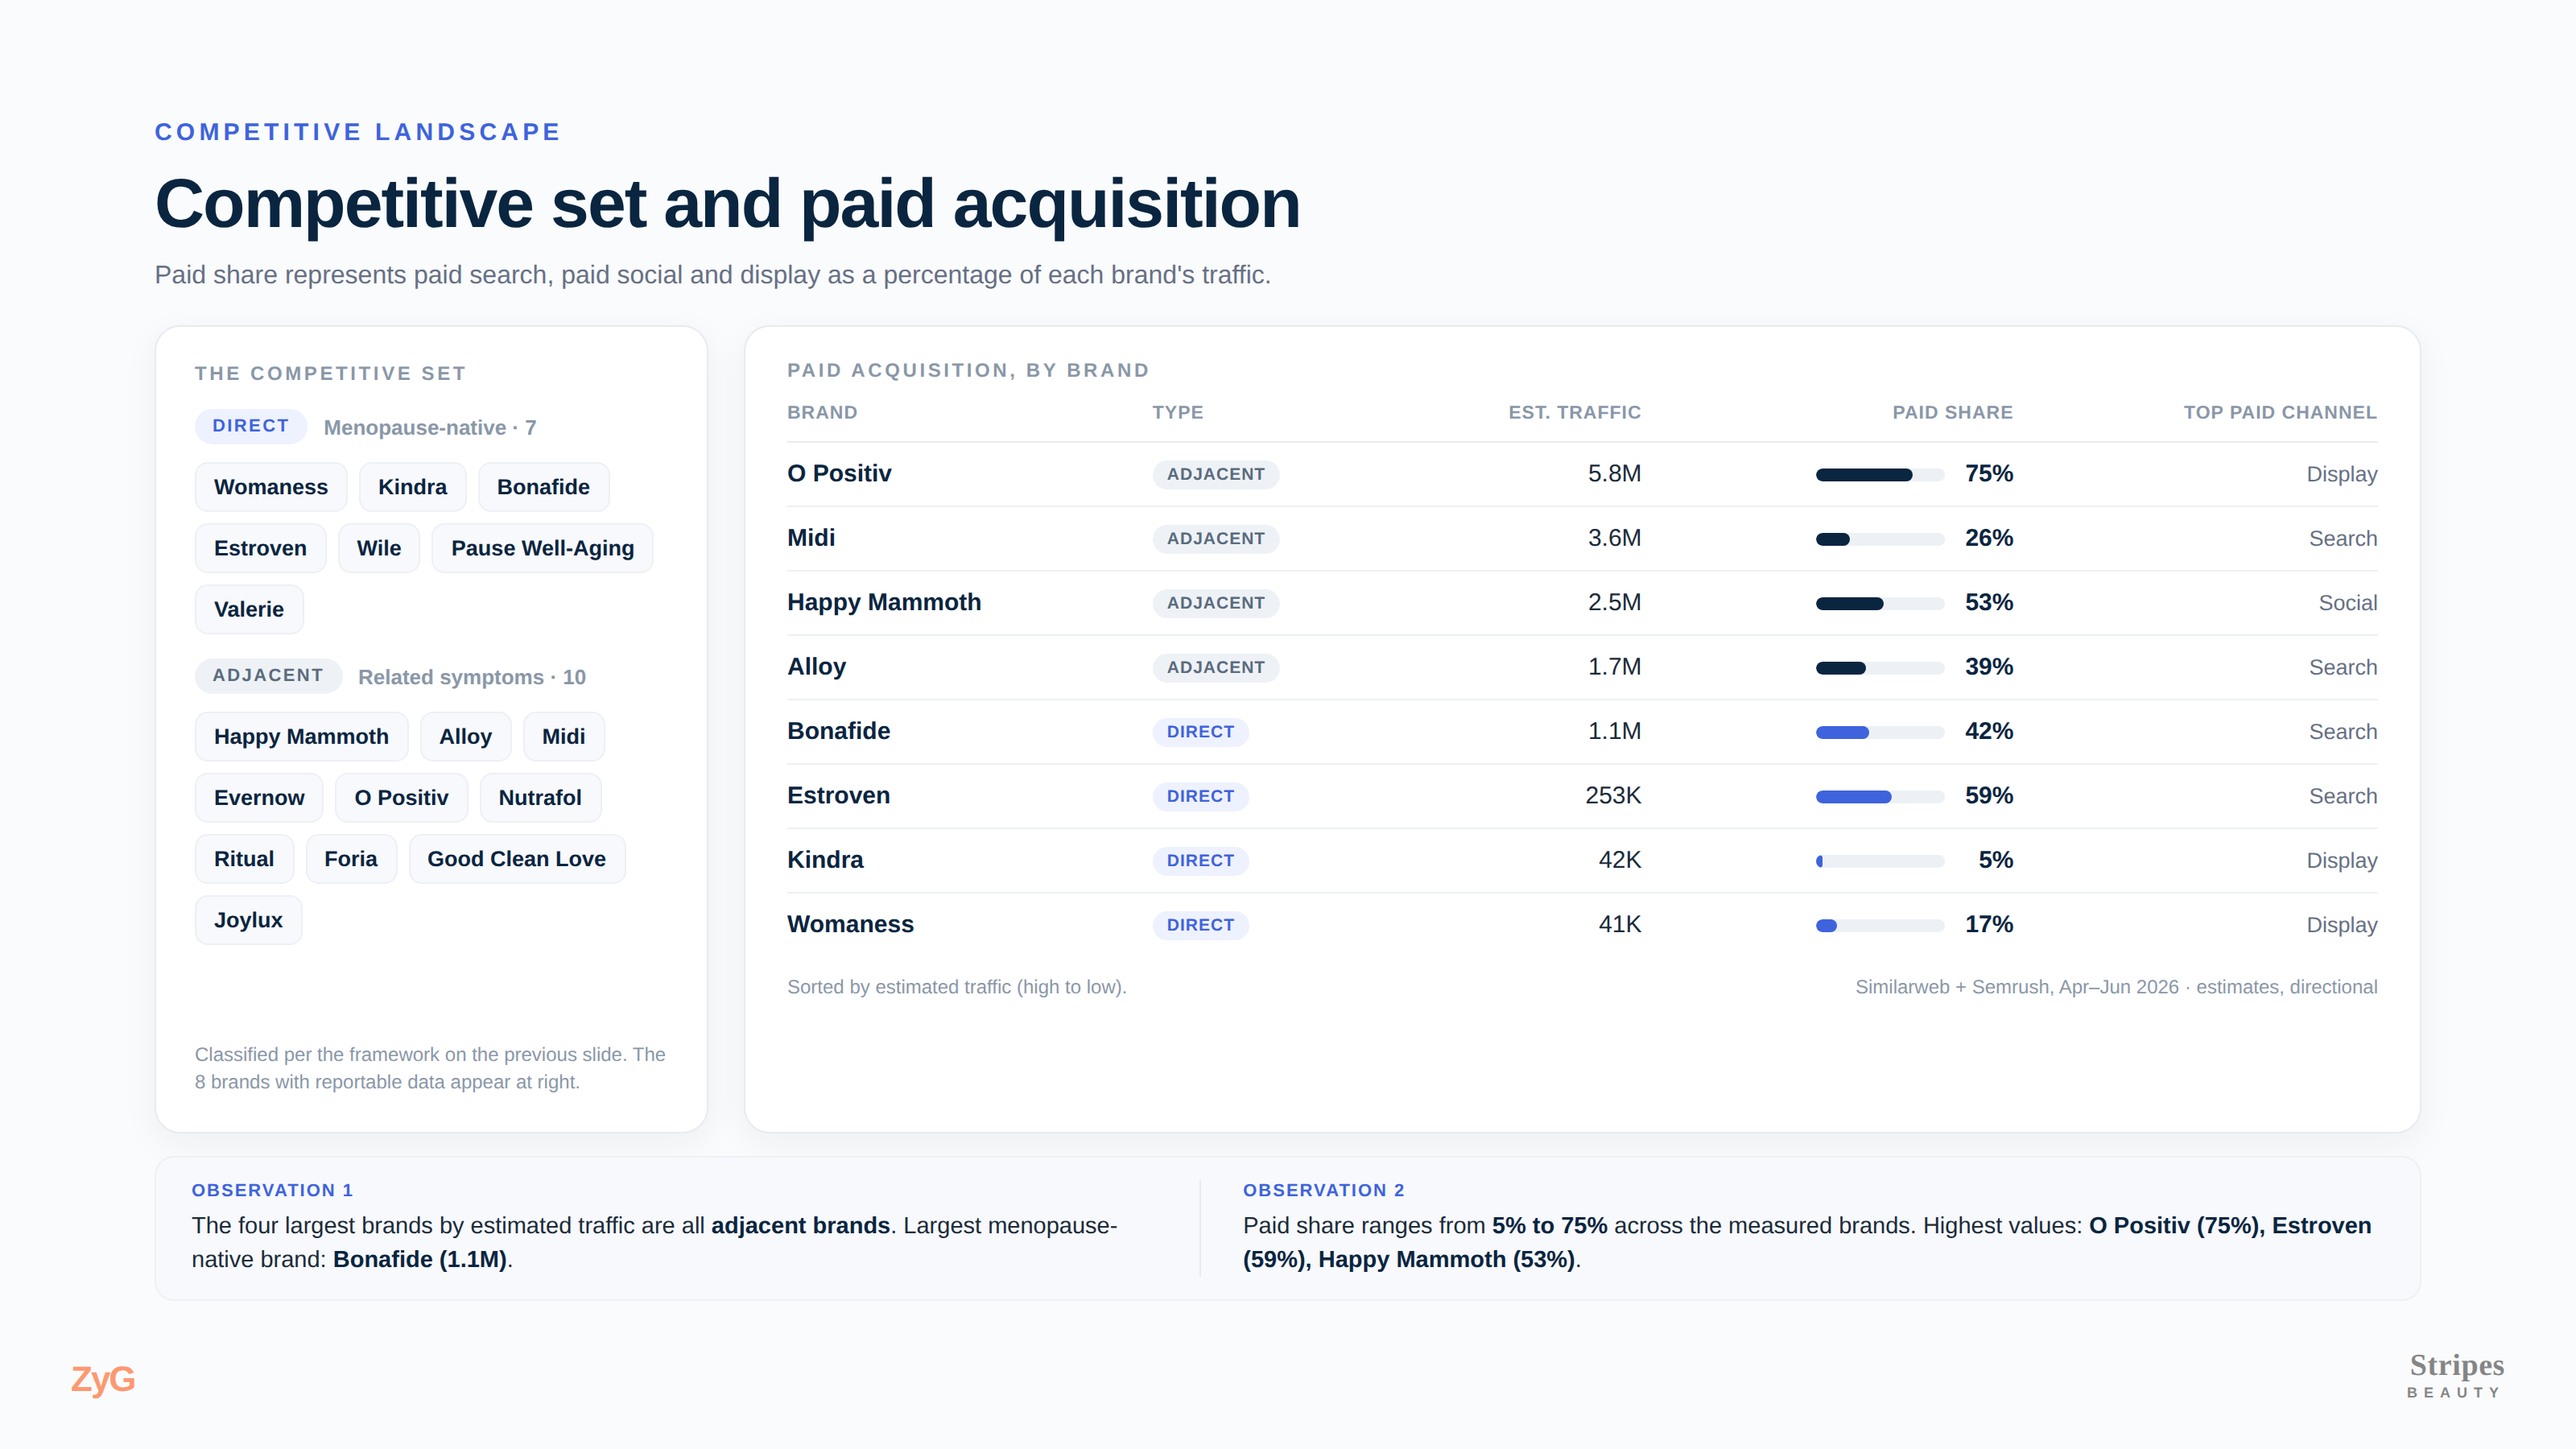
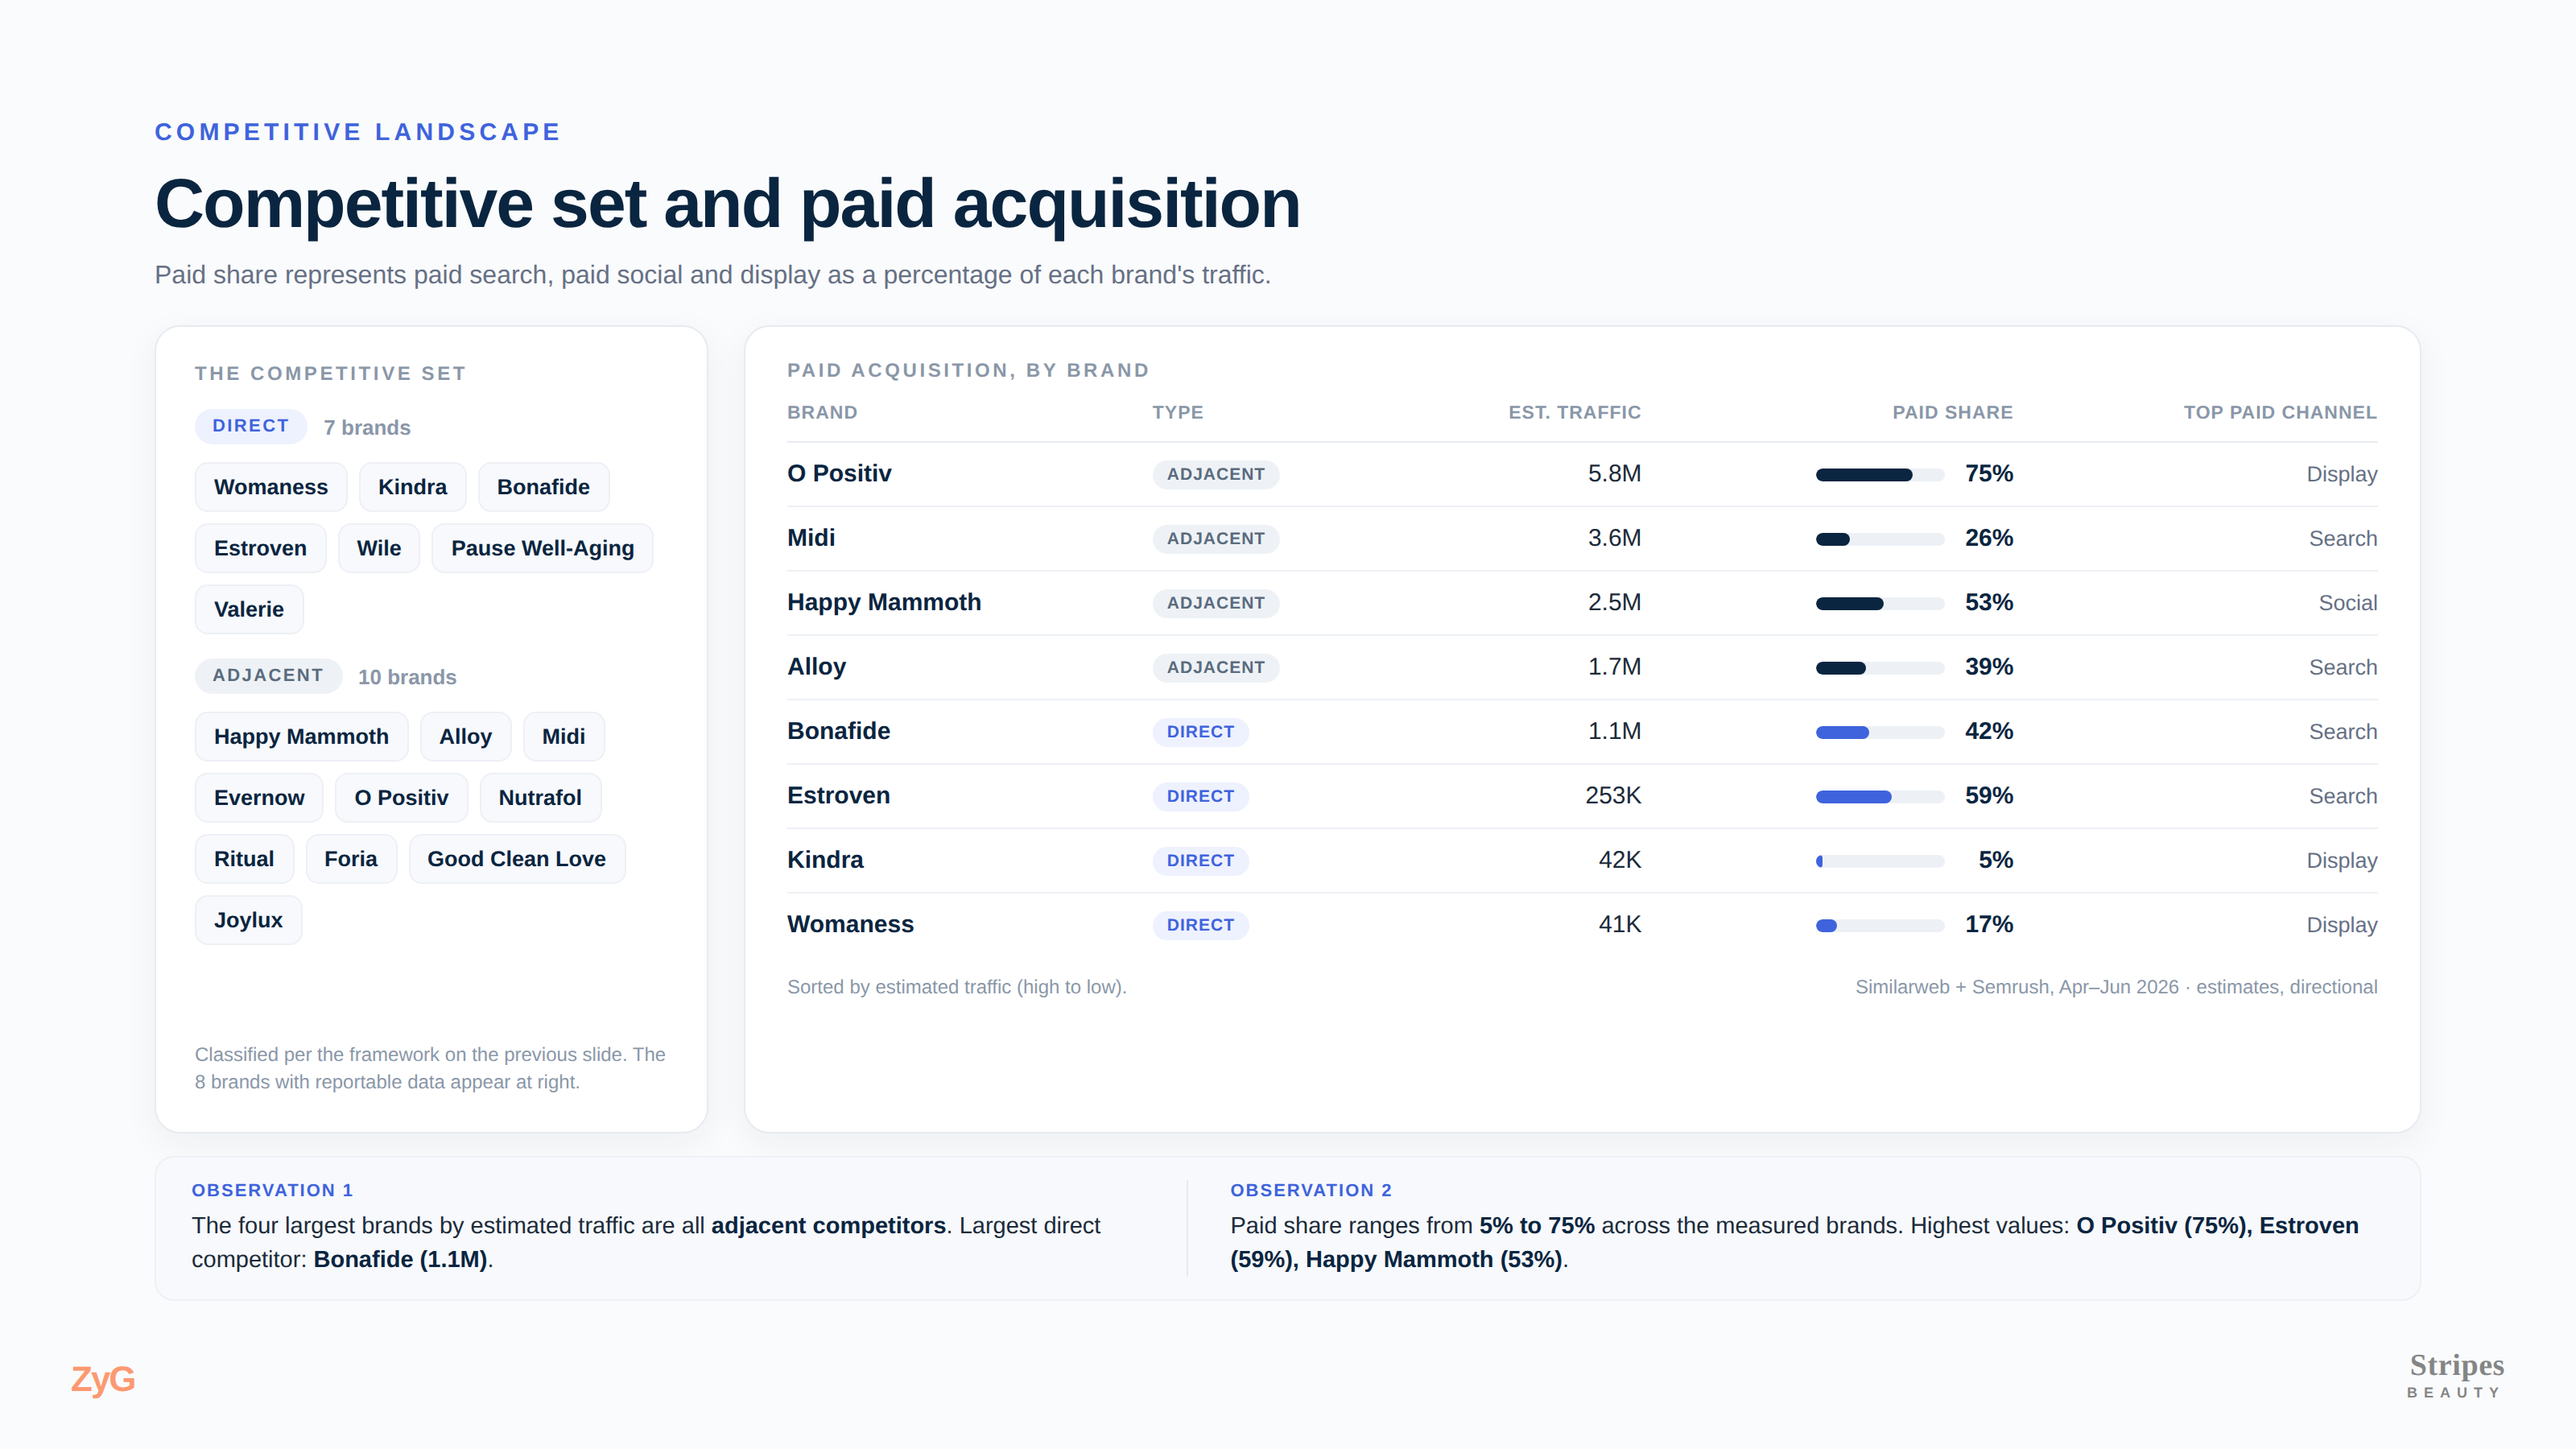
Final Part 1 polish: natural PM voice, consistent terminology
Standardize on Direct/Adjacent competitors everywhere (drop menopause-native).
Slide 2 positioning described factually; framework question reworded to
'Solving the same customer need?'; observations made strictly factual; card 1
implication softened; Part 2 transition simplified.

Claude-Session: https://claude.ai/code/session_01GoAG3ySswQXo2H1hh5EwTk

diff --git a/diagrams/slides/p1-04-landscape.html b/diagrams/slides/p1-04-landscape.html
@@ -50,14 +50,14 @@
     <div class="set card">
       <div class="cap">The competitive set</div>
       <div class="grp">
-        <div class="ghd"><span class="badge d">Direct</span><span class="gc">Menopause-native &middot; 7</span></div>
+        <div class="ghd"><span class="badge d">Direct</span><span class="gc">7 brands</span></div>
         <div class="chips">
           <span class="chip">Womaness</span><span class="chip">Kindra</span><span class="chip">Bonafide</span>
           <span class="chip">Estroven</span><span class="chip">Wile</span><span class="chip">Pause Well-Aging</span><span class="chip">Valerie</span>
         </div>
       </div>
       <div class="grp">
-        <div class="ghd"><span class="badge i">Adjacent</span><span class="gc">Related symptoms &middot; 10</span></div>
+        <div class="ghd"><span class="badge i">Adjacent</span><span class="gc">10 brands</span></div>
         <div class="chips">
           <span class="chip">Happy Mammoth</span><span class="chip">Alloy</span><span class="chip">Midi</span><span class="chip">Evernow</span>
           <span class="chip">O Positiv</span><span class="chip">Nutrafol</span><span class="chip">Ritual</span>
@@ -92,7 +92,7 @@
   </div>
 
   <div class="strip">
-    <div class="ob"><span class="h">Observation 1</span>The four largest brands by estimated traffic are all <b>adjacent brands</b>. Largest menopause-native brand: <b>Bonafide (1.1M)</b>.</div>
+    <div class="ob"><span class="h">Observation 1</span>The four largest brands by estimated traffic are all <b>adjacent competitors</b>. Largest direct competitor: <b>Bonafide (1.1M)</b>.</div>
     <div class="vl"></div>
     <div class="ob"><span class="h">Observation 2</span>Paid share ranges from <b>5% to 75%</b> across the measured brands. Highest values: <b>O Positiv (75%), Estroven (59%), Happy Mammoth (53%)</b>.</div>
   </div>

diff --git a/diagrams/slides/p1-06-takeaway.html b/diagrams/slides/p1-06-takeaway.html
@@ -27,7 +27,7 @@
       <div class="obt">Stripes' estimated traffic (<b>~11K/month</b>) is below every measured competitor included in this analysis.</div>
       <div class="impl">
         <div class="l">Implication</div>
-        <div class="t">Increasing <b>top-of-funnel traffic</b> appears to be an important growth opportunity.</div>
+        <div class="t">Relative traffic suggests there is <b>room to expand top-of-funnel reach</b>.</div>
       </div>
     </div>
     <div class="imp card">
@@ -40,17 +40,17 @@
     </div>
     <div class="imp card">
       <div class="obl">Observed</div>
-      <div class="obt">Paid investment among menopause-native brands is <b>uneven</b>.</div>
+      <div class="obt">Paid investment <b>varies across direct competitors</b>.</div>
       <div class="impl">
         <div class="l">Implication</div>
-        <div class="t">The direct competitive set does <b>not appear uniformly aggressive</b> in paid acquisition.</div>
+        <div class="t">Direct competitors do <b>not appear uniformly aggressive</b> in paid acquisition.</div>
       </div>
     </div>
   </div>
 
   <div class="next">
     <span class="lbl">Next</span>
-    <div class="t">Part 2 focuses on the <b>recommended hero product launch</b> and the acquisition strategy built around it.</div>
+    <div class="t">Part 2 focuses on the <b>proposed acquisition strategy</b> built around Stripes' hero product.</div>
     <span class="arr">&#8594;</span>
   </div>
 

diff --git a/diagrams/slides/p1-05-insights.html b/diagrams/slides/p1-05-insights.html
@@ -18,8 +18,8 @@
   <div class="row3">
     <div class="ins card">
       <div class="n">01</div>
-      <h3>The largest brands in the set are adjacent brands</h3>
-      <p>The four highest-traffic brands are not menopause-native brands.</p>
+      <h3>The highest estimated traffic belongs to adjacent competitors</h3>
+      <p>The four highest-traffic brands are adjacent competitors. Bonafide, the largest direct competitor, ranks fifth.</p>
       <div class="data">O Positiv 5.8M &middot; Midi 3.6M &middot; Happy Mammoth 2.5M &middot; Alloy 1.7M <b>vs.</b> Bonafide 1.1M</div>
     </div>
     <div class="ins card">
@@ -30,7 +30,7 @@
     </div>
     <div class="ins card">
       <div class="n">03</div>
-      <h3>Paid investment among menopause-native brands is inconsistent</h3>
+      <h3>Paid investment varies across direct competitors</h3>
       <p>Some invest heavily in paid channels, while others have minimal paid presence.</p>
       <div class="data">High: Estroven 59%, Bonafide 42% &middot; Low: Womaness 17%, Kindra 5%</div>
     </div>

diff --git a/diagrams/slides/p1-03-framework.html b/diagrams/slides/p1-03-framework.html
@@ -23,7 +23,7 @@
 
   <div class="qrow">
     <div class="q card"><div class="qn">1</div><div><div class="qt">Same customer?</div><div class="qs">Targets women experiencing peri- or menopause.</div></div></div>
-    <div class="q card"><div class="qn">2</div><div><div class="qt">Same problem?</div><div class="qs">Offers products intended to address menopause-related symptoms.</div></div></div>
+    <div class="q card"><div class="qn">2</div><div><div class="qt">Solving the same customer need?</div><div class="qs">Offers products intended to address menopause-related symptoms.</div></div></div>
     <div class="arrow">&#8594;</div>
     <div class="result"><div class="r1">Both yes</div><div class="r2">Included in<br>the analysis</div></div>
   </div>

diff --git a/diagrams/slides/p1-02-market.html b/diagrams/slides/p1-02-market.html
@@ -34,8 +34,8 @@
     <span class="sep">&rsaquo;</span>
     <div class="pos"><span class="k">Category</span><span class="v">Menopause Wellness</span></div>
     <span class="sep">&rsaquo;</span>
-    <div class="pos brand-pos"><span class="k">Stripes</span><span class="v">A life-stage brand</span></div>
-    <span class="tail">- positioned across perimenopause to post-menopause, not a single symptom.</span>
+    <div class="pos brand-pos"><span class="k">Stripes</span><span class="v">Products spanning the menopause journey</span></div>
+    <span class="tail">- from perimenopause through post-menopause.</span>
   </div>
 
   <div class="cols">
